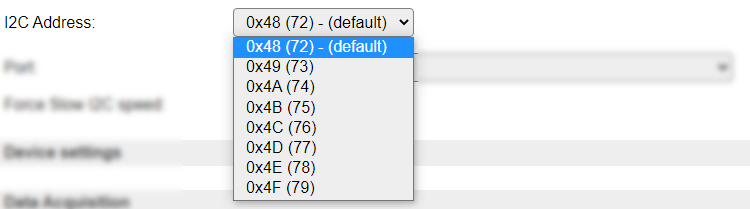
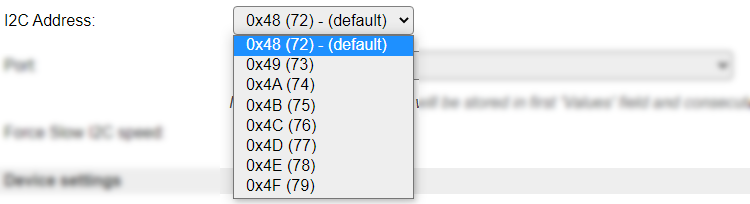
[P007] Updated documentation

diff --git a/docs/source/Plugin/P007.rst b/docs/source/Plugin/P007.rst
@@ -24,7 +24,7 @@ Used libraries: |P007_usedlibraries|
 Introduction
 ------------
 
-The PCF8591 is an Analog to Digital converter, connected via an I2C bus. The plugin supports to read 1 input, if more inputs need to be read, extra Tasks can be defined, addressing the extra inputs.
+The PCF8591 is an Analog to Digital converter, connected via an I2C bus. The plugin supports to read from 1 up to 4 input values. If desired, multiple Tasks *can* be defined, addressing other, or duplicate, inputs.
 
 Supported hardware
 ------------------
@@ -45,38 +45,58 @@ Configuration
 
 .. image:: P007_DeviceConfiguration.png
 
-**Name** A unique name should be entered here.
+* **Name** A unique name should be entered here.
 
-**Enabled** The device can be disabled or enabled. When not enabled the device should not use any resources.
+* **Enabled** The device can be disabled or enabled. When not enabled the device should not use any resources.
 
 I2C Options 
 ^^^^^^^^^^^^
 
 The available settings here depend on the build used. At least the **Force Slow I2C speed** option is available, but selections for the I2C Multiplexer can also be shown. For details see the :ref:`Hardware_page`
 
-**I2C Address**: The address the device is using. There are a number of addresses the module can use, and they can usually be set at the board using jumper pins.
+* **I2C Address**: The address the device is using. There are a number of addresses the module can use, and they can usually be set at the board using jumper pins.
 
 The available options:
 
 .. image:: P007_I2CAddressOptions.png
 
-**Port** As there are multiple Ports available on each board, the desired Port can be selected here.
+* **Port** As there are multiple Ports available on each board, the desired Port can be selected here.
 
 Available options:
 
 .. image:: P007_PortOptions.png
+
+Output Configuration
+^^^^^^^^^^^^^^^^^^^^
+
+* **Number Output Values** As this device supports 4 Analog inputs, the number of measurements handled by this task can be configured.
+
+Available options:
+
+.. image:: P007_NumberOutputValuesOptions.png
+
+The names should speak for themselves.
+
+When selecting f.e. the Quad option and saving the settings, the number of output values is changed to 4, resulting in these Values:
+
+.. image:: P007_OutputValuesQuad.png
+
+.. note::
+   If Port is set to A1, A2 or A3, then the value measured from the selected **Port** will be stored in the first Values field, and any next field(s) consecutively. If **Number Output Values** is larger than the remaining number of Ports, then the remaining Values will be set to 0!
+
+   For any 'excess' values, events *will* be generated!
 
 Data Acquisition
 ^^^^^^^^^^^^^^^^
 
 This group of settings, **Single event with all values**, **Send to Controller** and **Interval** settings are standard available configuration items. Send to Controller is only visible when one or more Controllers are configured.
 
-**Interval** By default, Interval will be set to 60 sec. It is the frequency used to read sensor values and send these to any Controllers configured for this device.
+* **Interval** By default, Interval will be set to 60 sec. It is the frequency used to read sensor values and send these to any Controllers configured for this device.
 
 Values
 ^^^^^^
 
-The name for the value is initially set to a default name, but can be changed if desired. Also, a formula can be entered to re-calculate the value before display/sending to a controller, and the number of decimals can be changed, for Temperature, usually 1 decimal is enough to be displayed (value will be rounded).
+The name for the value(s) is initially set to a default name, but can be changed if desired. Also, a formula can be entered to re-calculate a value before display/sending to a controller, and the number of decimals can be changed, for a Temperature, usually 1 decimal is enough to be displayed (value will be rounded).
 
 .. Commands available
 .. ^^^^^^^^^^^^^^^^^^
@@ -93,6 +113,9 @@ Change log
 
 .. versionchanged:: 2.0
   ...
+
+  |added|
+  2021-08-06 Selection of 1 to 4 input values to be read.
 
   |added|
   2021-08-03 Replaced single Port inputfield with separate I2CAddress and Port selections.
